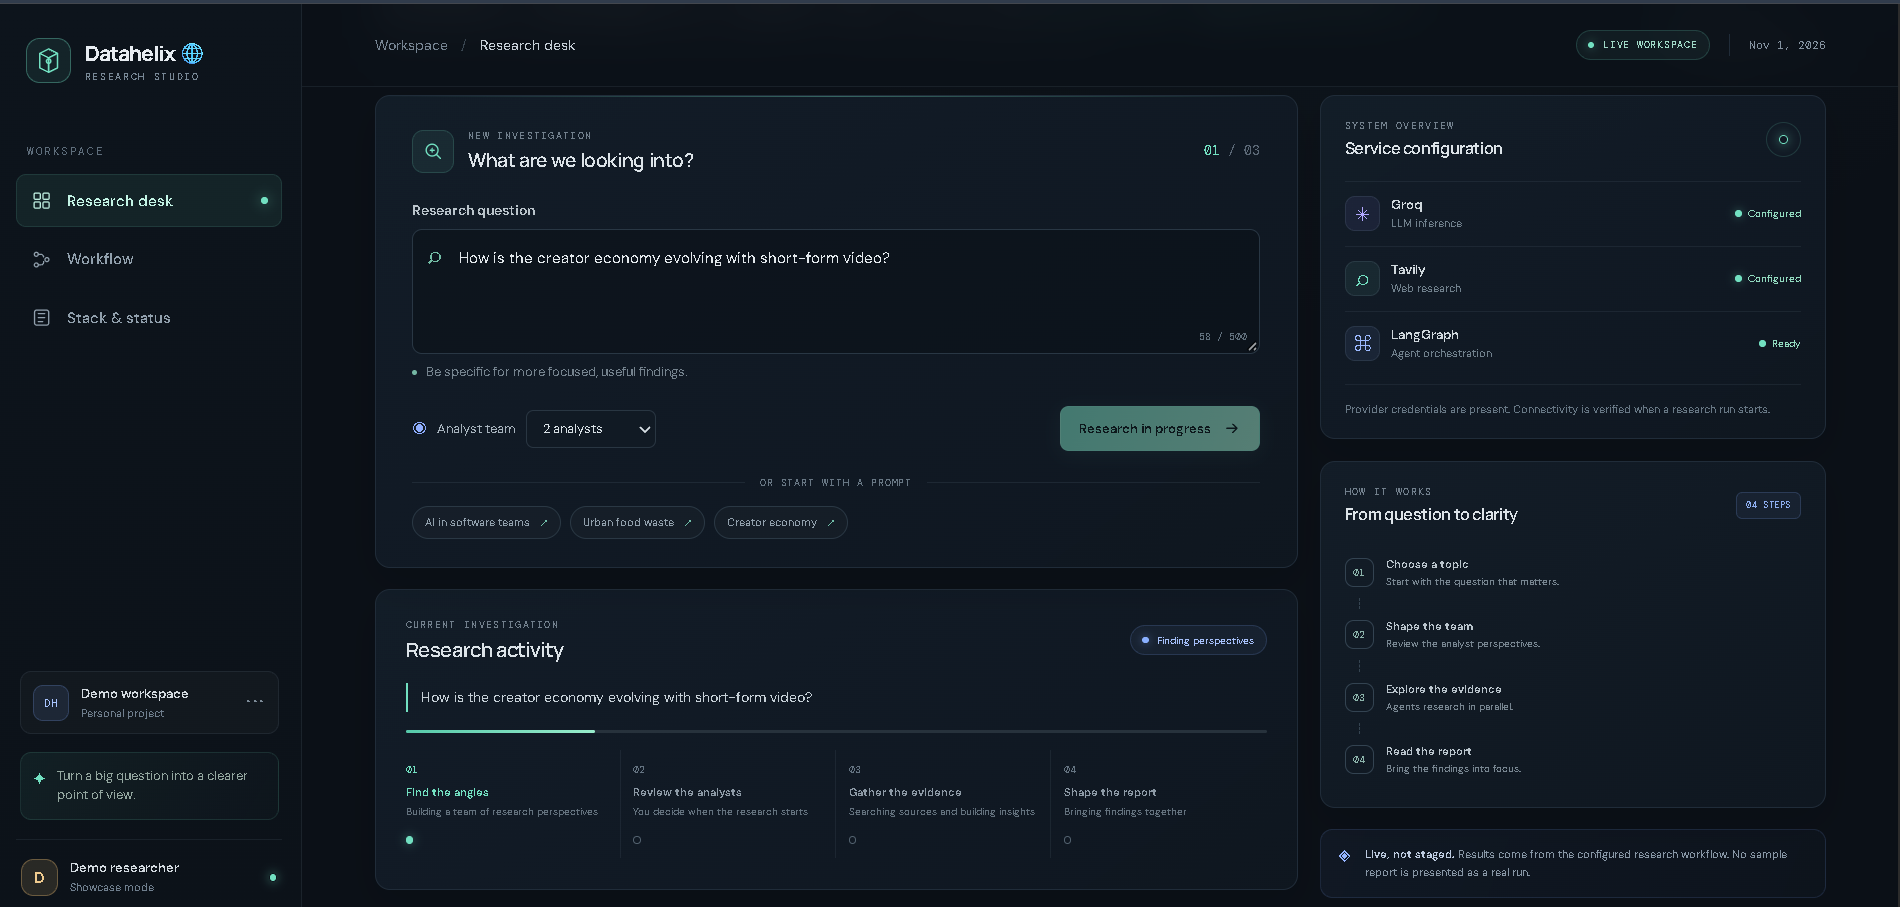
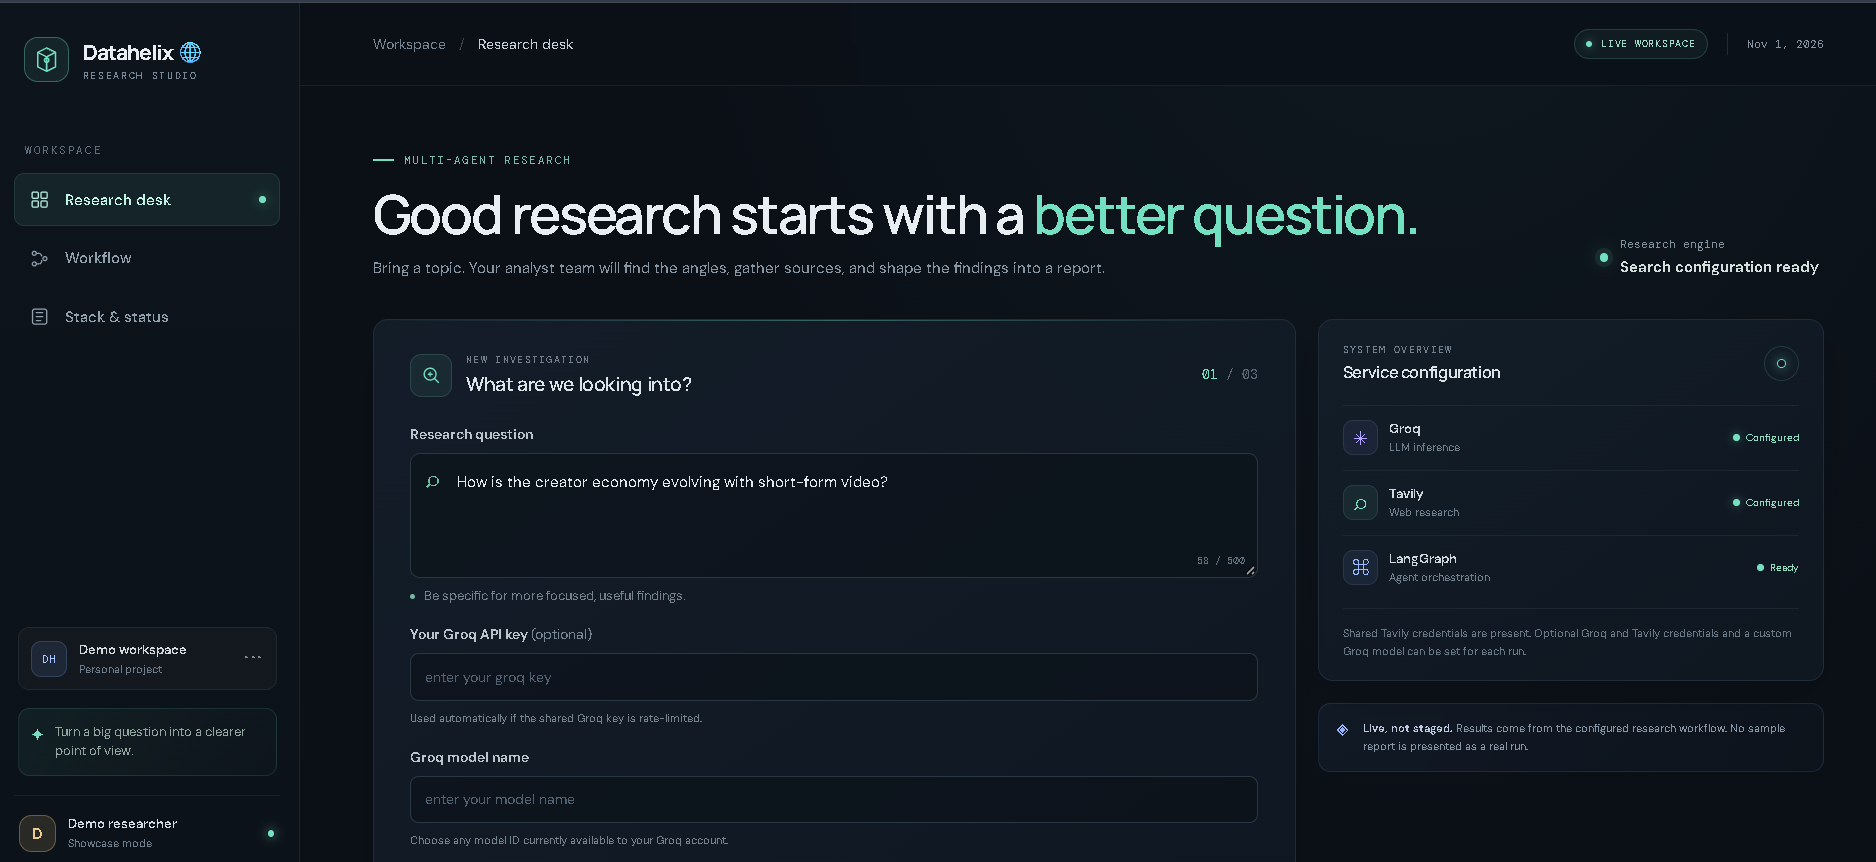
DataHellix AI ✅

diff --git a/README.md b/README.md
@@ -48,6 +48,10 @@
 <img src="./preview/live.png" width="100%" alt="Datahelix UI Preview">
 </p>
 
+<p align="center">
+<img src="./preview/result.png" width="100%" alt="Datahelix UI Preview">
+</p>
+
 ---
 
 ### ***✅ What Datahelix Can Do***
